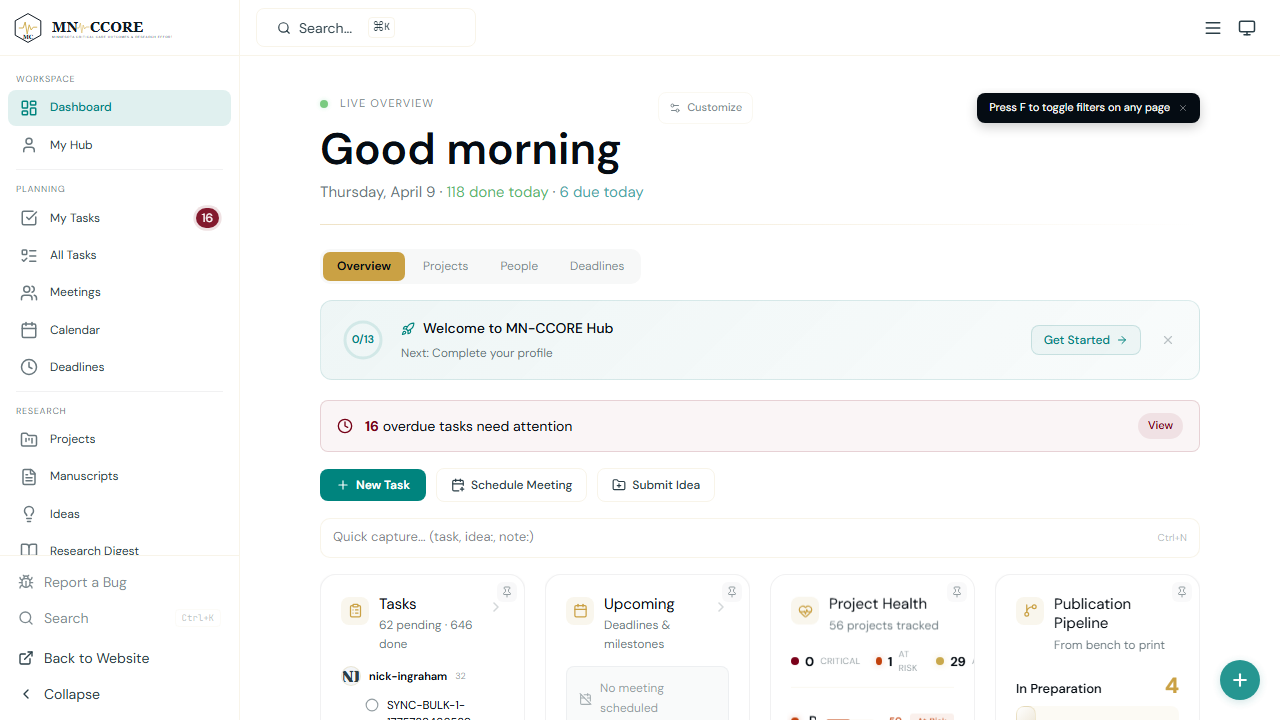
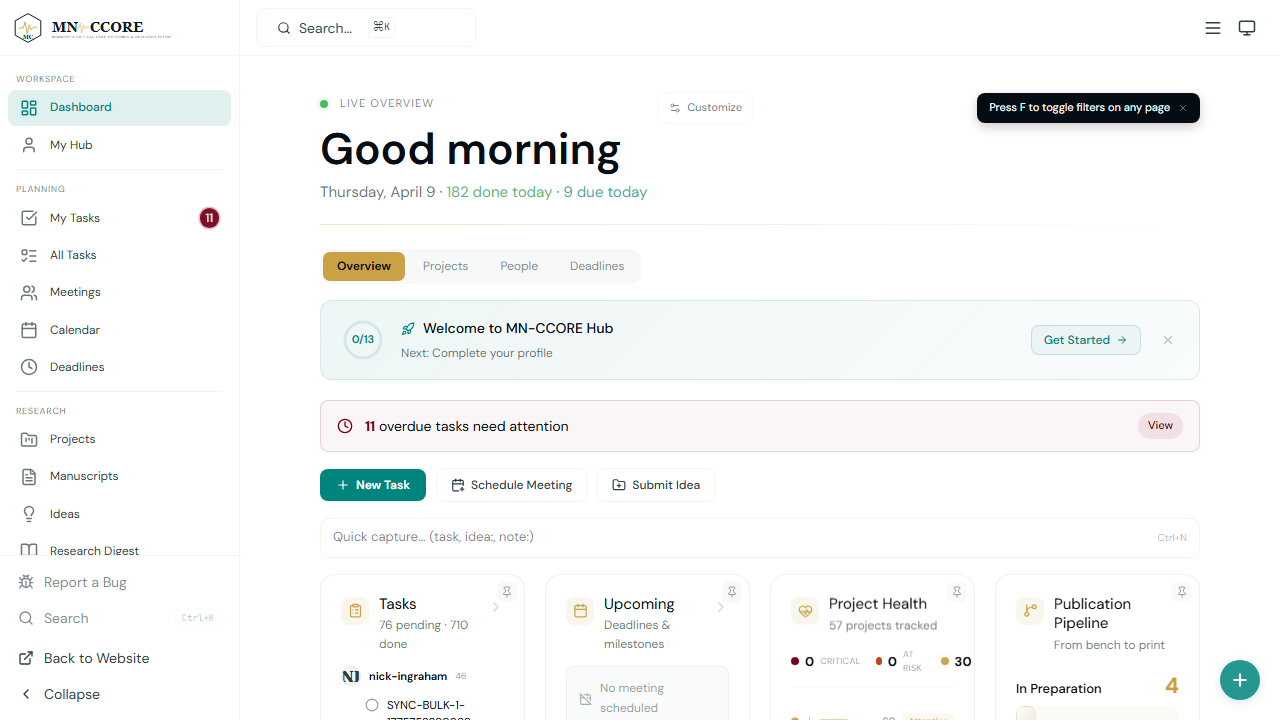
fix: test timeouts (light mode, dashboard cold start), toast/priority selectors use data-testid

diff --git a/tests/daily-superuser.spec.ts b/tests/daily-superuser.spec.ts
@@ -45,7 +45,7 @@ async function createTestTask(request: APIRequestContext, suffix: string) {
 // ═════════════════════════════════════════════════════════════════════
 
 test.describe('MORNING — Dashboard triage', () => {
-  test('Dashboard loads with greeting, cards, and no crashes', async ({ page }) => {
+  test('Dashboard loads with greeting, cards, and no crashes', { timeout: 60000 }, async ({ page }) => {
     const errors = await go(page, '/dashboard')
     expect(errors).toEqual([])
 
@@ -907,9 +907,9 @@ test.describe('VISUAL — Look and feel', () => {
     await page.waitForLoadState('networkidle')
   })
 
-  test('Light mode renders correctly on all key pages', async ({ page }) => {
+  test('Light mode renders correctly on all key pages', { timeout: 90000 }, async ({ page }) => {
     for (const path of ['/dashboard', '/tasks', '/projects', '/meetings']) {
-      await page.goto(`${BASE}${path}`, { waitUntil: 'networkidle', timeout: 15000 })
+      await page.goto(`${BASE}${path}`, { waitUntil: 'load', timeout: 15000 })
       await page.evaluate(() => {
         document.documentElement.classList.remove('dark')
         document.documentElement.classList.add('light')
@@ -1839,25 +1839,26 @@ test.describe('EXHAUSTIVE — Every interactive element verified', () => {
 
   test('29. Multiple toasts: trigger 2 status changes quickly → verify 2 toasts visible simultaneously', async ({ page }) => {
     await go(page, '/tasks')
-    // Click status circles on first two task rows to trigger toasts
-    const statusCircles = page.locator('.task-grid-row .status-circle, .task-grid-row [class*="status"] svg, .task-grid-row circle').filter({ has: page.locator('svg, circle') })
-    const circleCount = await statusCircles.count().catch(() => 0)
-    if (circleCount >= 2) {
-      await statusCircles.nth(0).click()
+    // Use data-testid to find status dropdowns in task rows
+    const statusBtns = page.locator('[data-testid^="task-status-"] button')
+    const btnCount = await statusBtns.count().catch(() => 0)
+    if (btnCount >= 2) {
+      // Click first status dropdown and pick an option
+      await statusBtns.nth(0).click()
       await page.waitForTimeout(200)
-      await statusCircles.nth(1).click()
-      await page.waitForTimeout(800)
-    } else {
-      // Fallback to keyboard
-      await page.locator('body').click()
-      await page.keyboard.press('j')
-      await page.waitForTimeout(300)
-      await page.keyboard.press('s')
-      await page.waitForTimeout(400)
-      await page.keyboard.press('j')
-      await page.waitForTimeout(300)
-      await page.keyboard.press('s')
-      await page.waitForTimeout(800)
+      const opt1 = page.locator('text=Done').last()
+      if (await opt1.isVisible({ timeout: 1000 }).catch(() => false)) {
+        await opt1.click()
+        await page.waitForTimeout(300)
+        // Click second status dropdown
+        await statusBtns.nth(1).click()
+        await page.waitForTimeout(200)
+        const opt2 = page.locator('text=Done').last()
+        if (await opt2.isVisible({ timeout: 1000 }).catch(() => false)) {
+          await opt2.click()
+          await page.waitForTimeout(800)
+        }
+      }
     }
     // UndoToast uses role="status"
     const toasts = await page.locator('[role="status"] > div, text=Undo').count()
@@ -1904,8 +1905,8 @@ test.describe('EXHAUSTIVE — Every interactive element verified', () => {
 
   test('31. Instant UI: change priority dropdown → verify button text changed IMMEDIATELY', async ({ page }) => {
     await go(page, '/tasks')
-    // Find the first task row's priority cell
-    const prioCell = page.locator('.task-row-priority').first()
+    // Find the first task row's priority cell via data-testid
+    const prioCell = page.locator('[data-testid^="task-priority-"]').first()
     const prioBtn = prioCell.locator('button').first()
     if (await prioBtn.isVisible({ timeout: 3000 }).catch(() => false)) {
       const originalText = await prioBtn.textContent() || ''
@@ -1916,7 +1917,7 @@ test.describe('EXHAUSTIVE — Every interactive element verified', () => {
       if (await option.isVisible({ timeout: 1000 }).catch(() => false)) {
         await option.click()
         // Optimistic update should reflect immediately — use Playwright auto-retry
-        await expect(prioCell.locator('button').first()).toContainText(newPrio, { timeout: 3000 })
+        await expect(prioCell.locator('button').first()).toContainText(newPrio, { timeout: 5000 })
         console.log(`Optimistic update: "${originalText}" → "${newPrio}" ✓`)
         // Undo
         const undo = page.locator('text=Undo').first()
